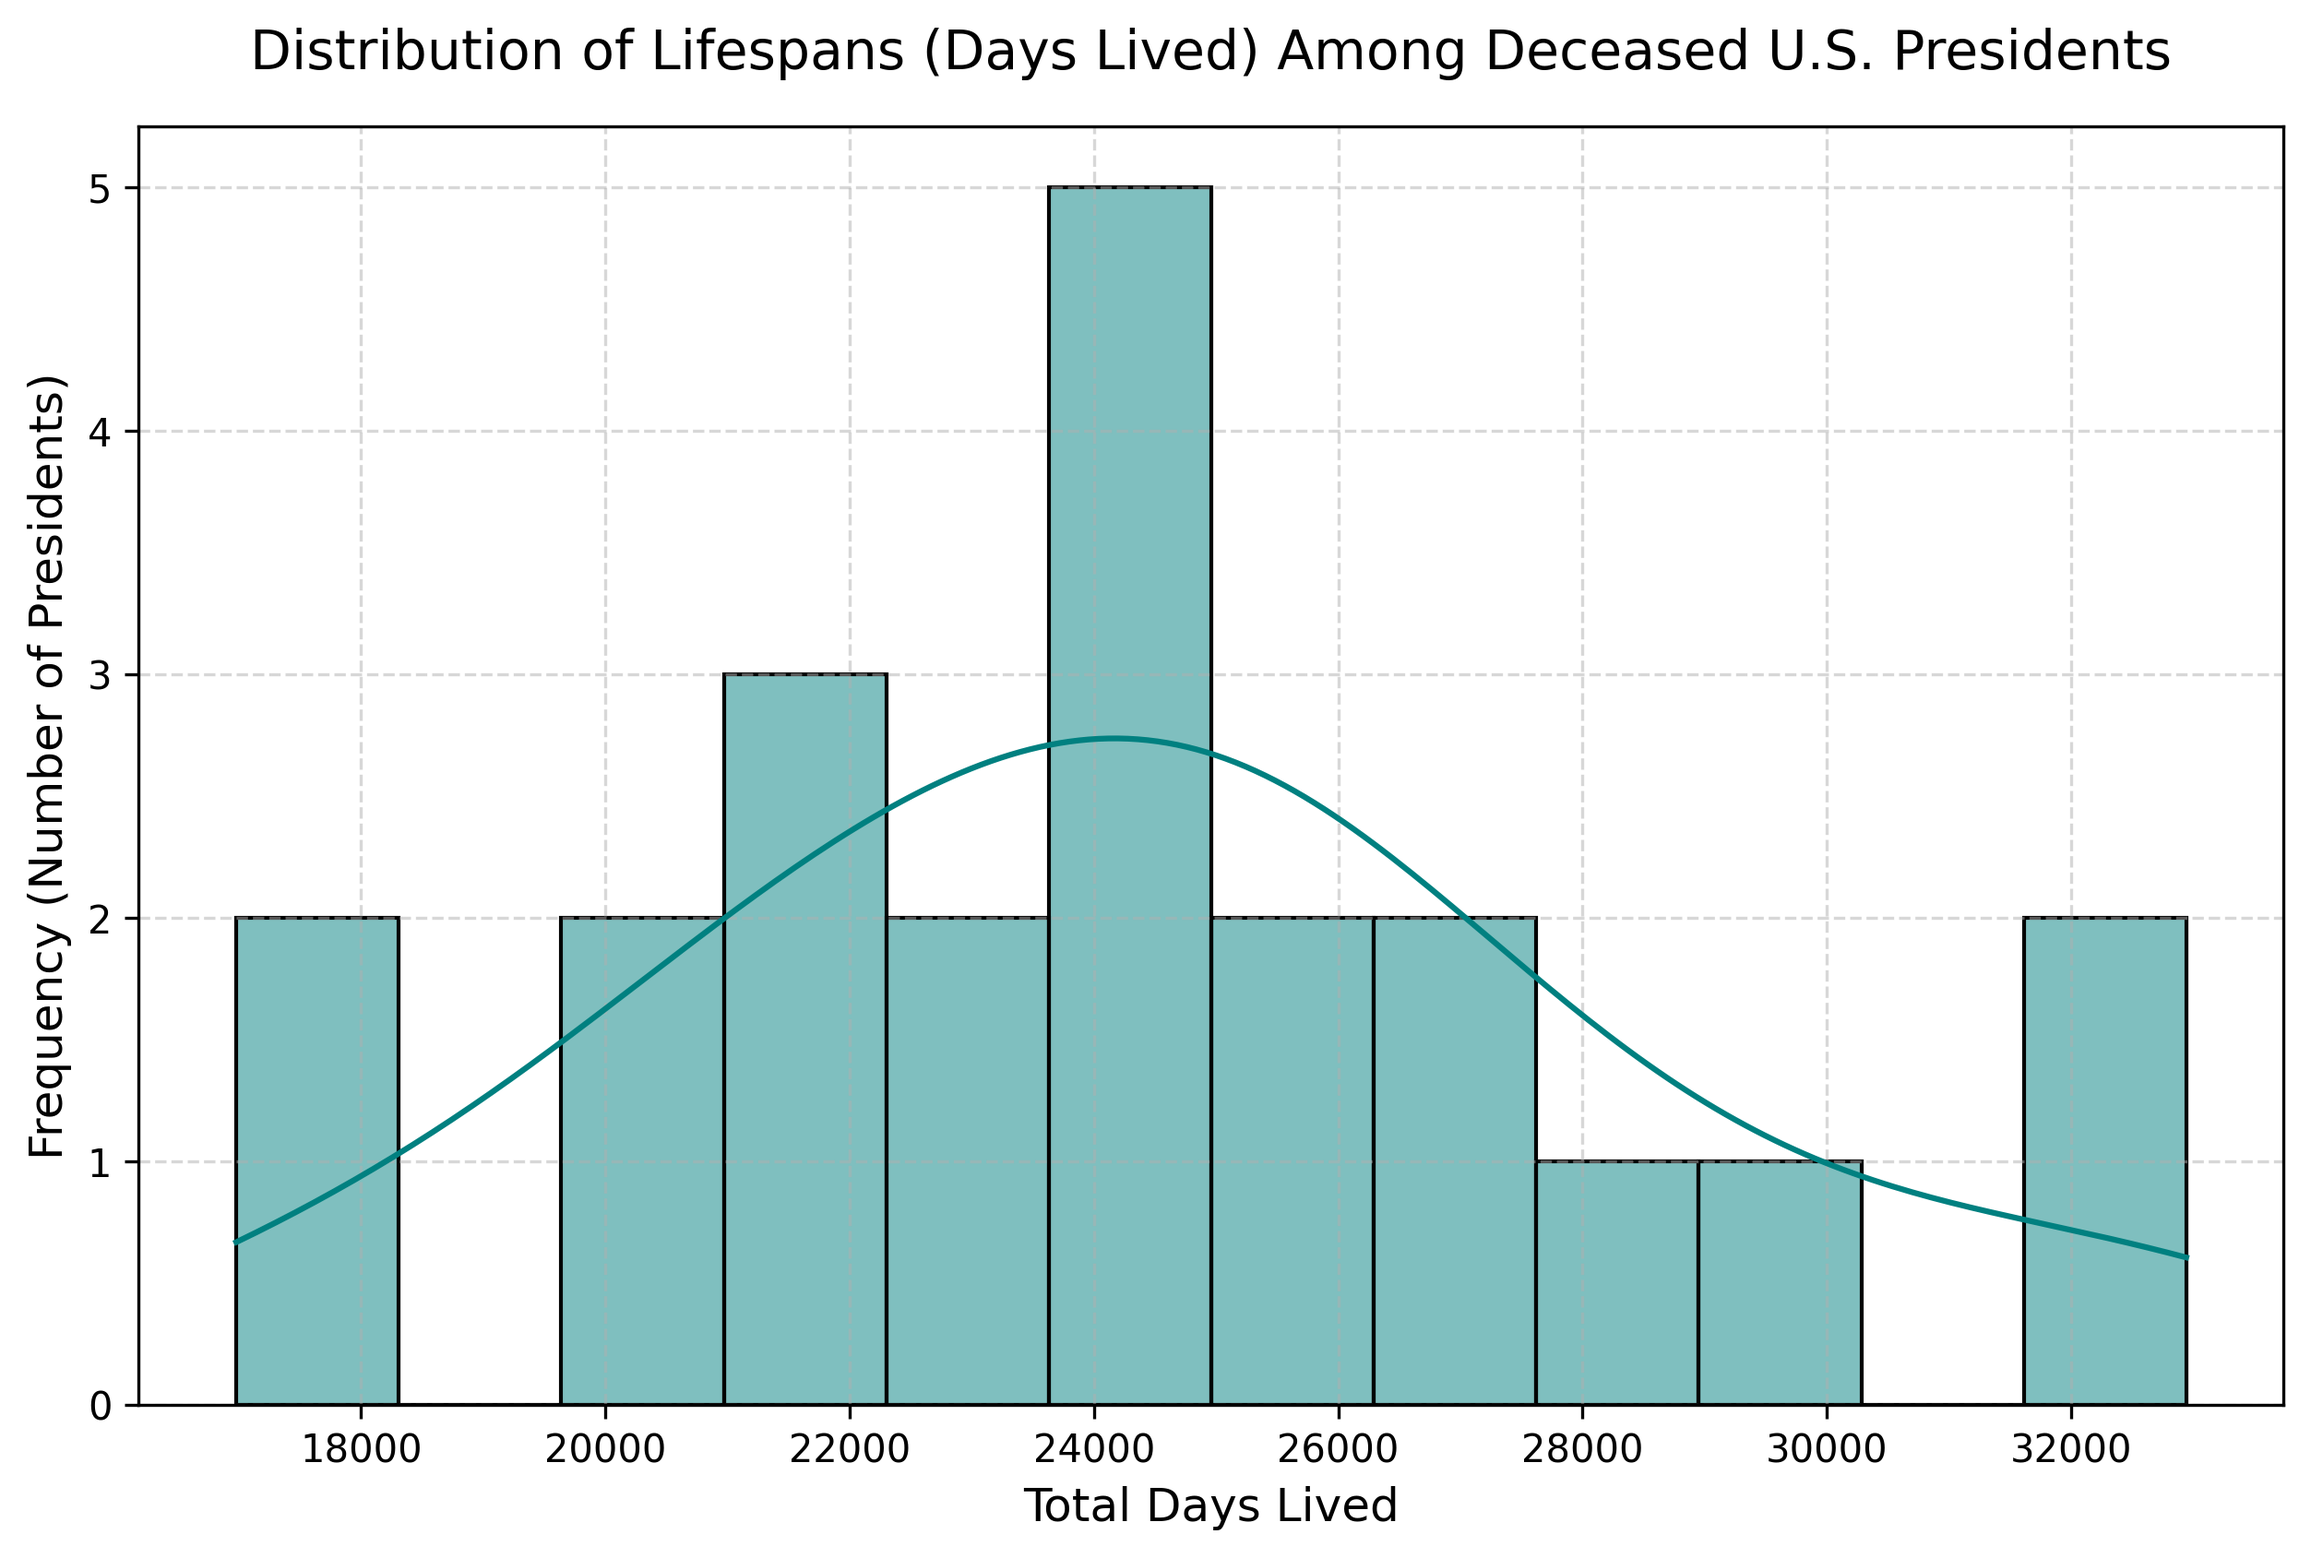
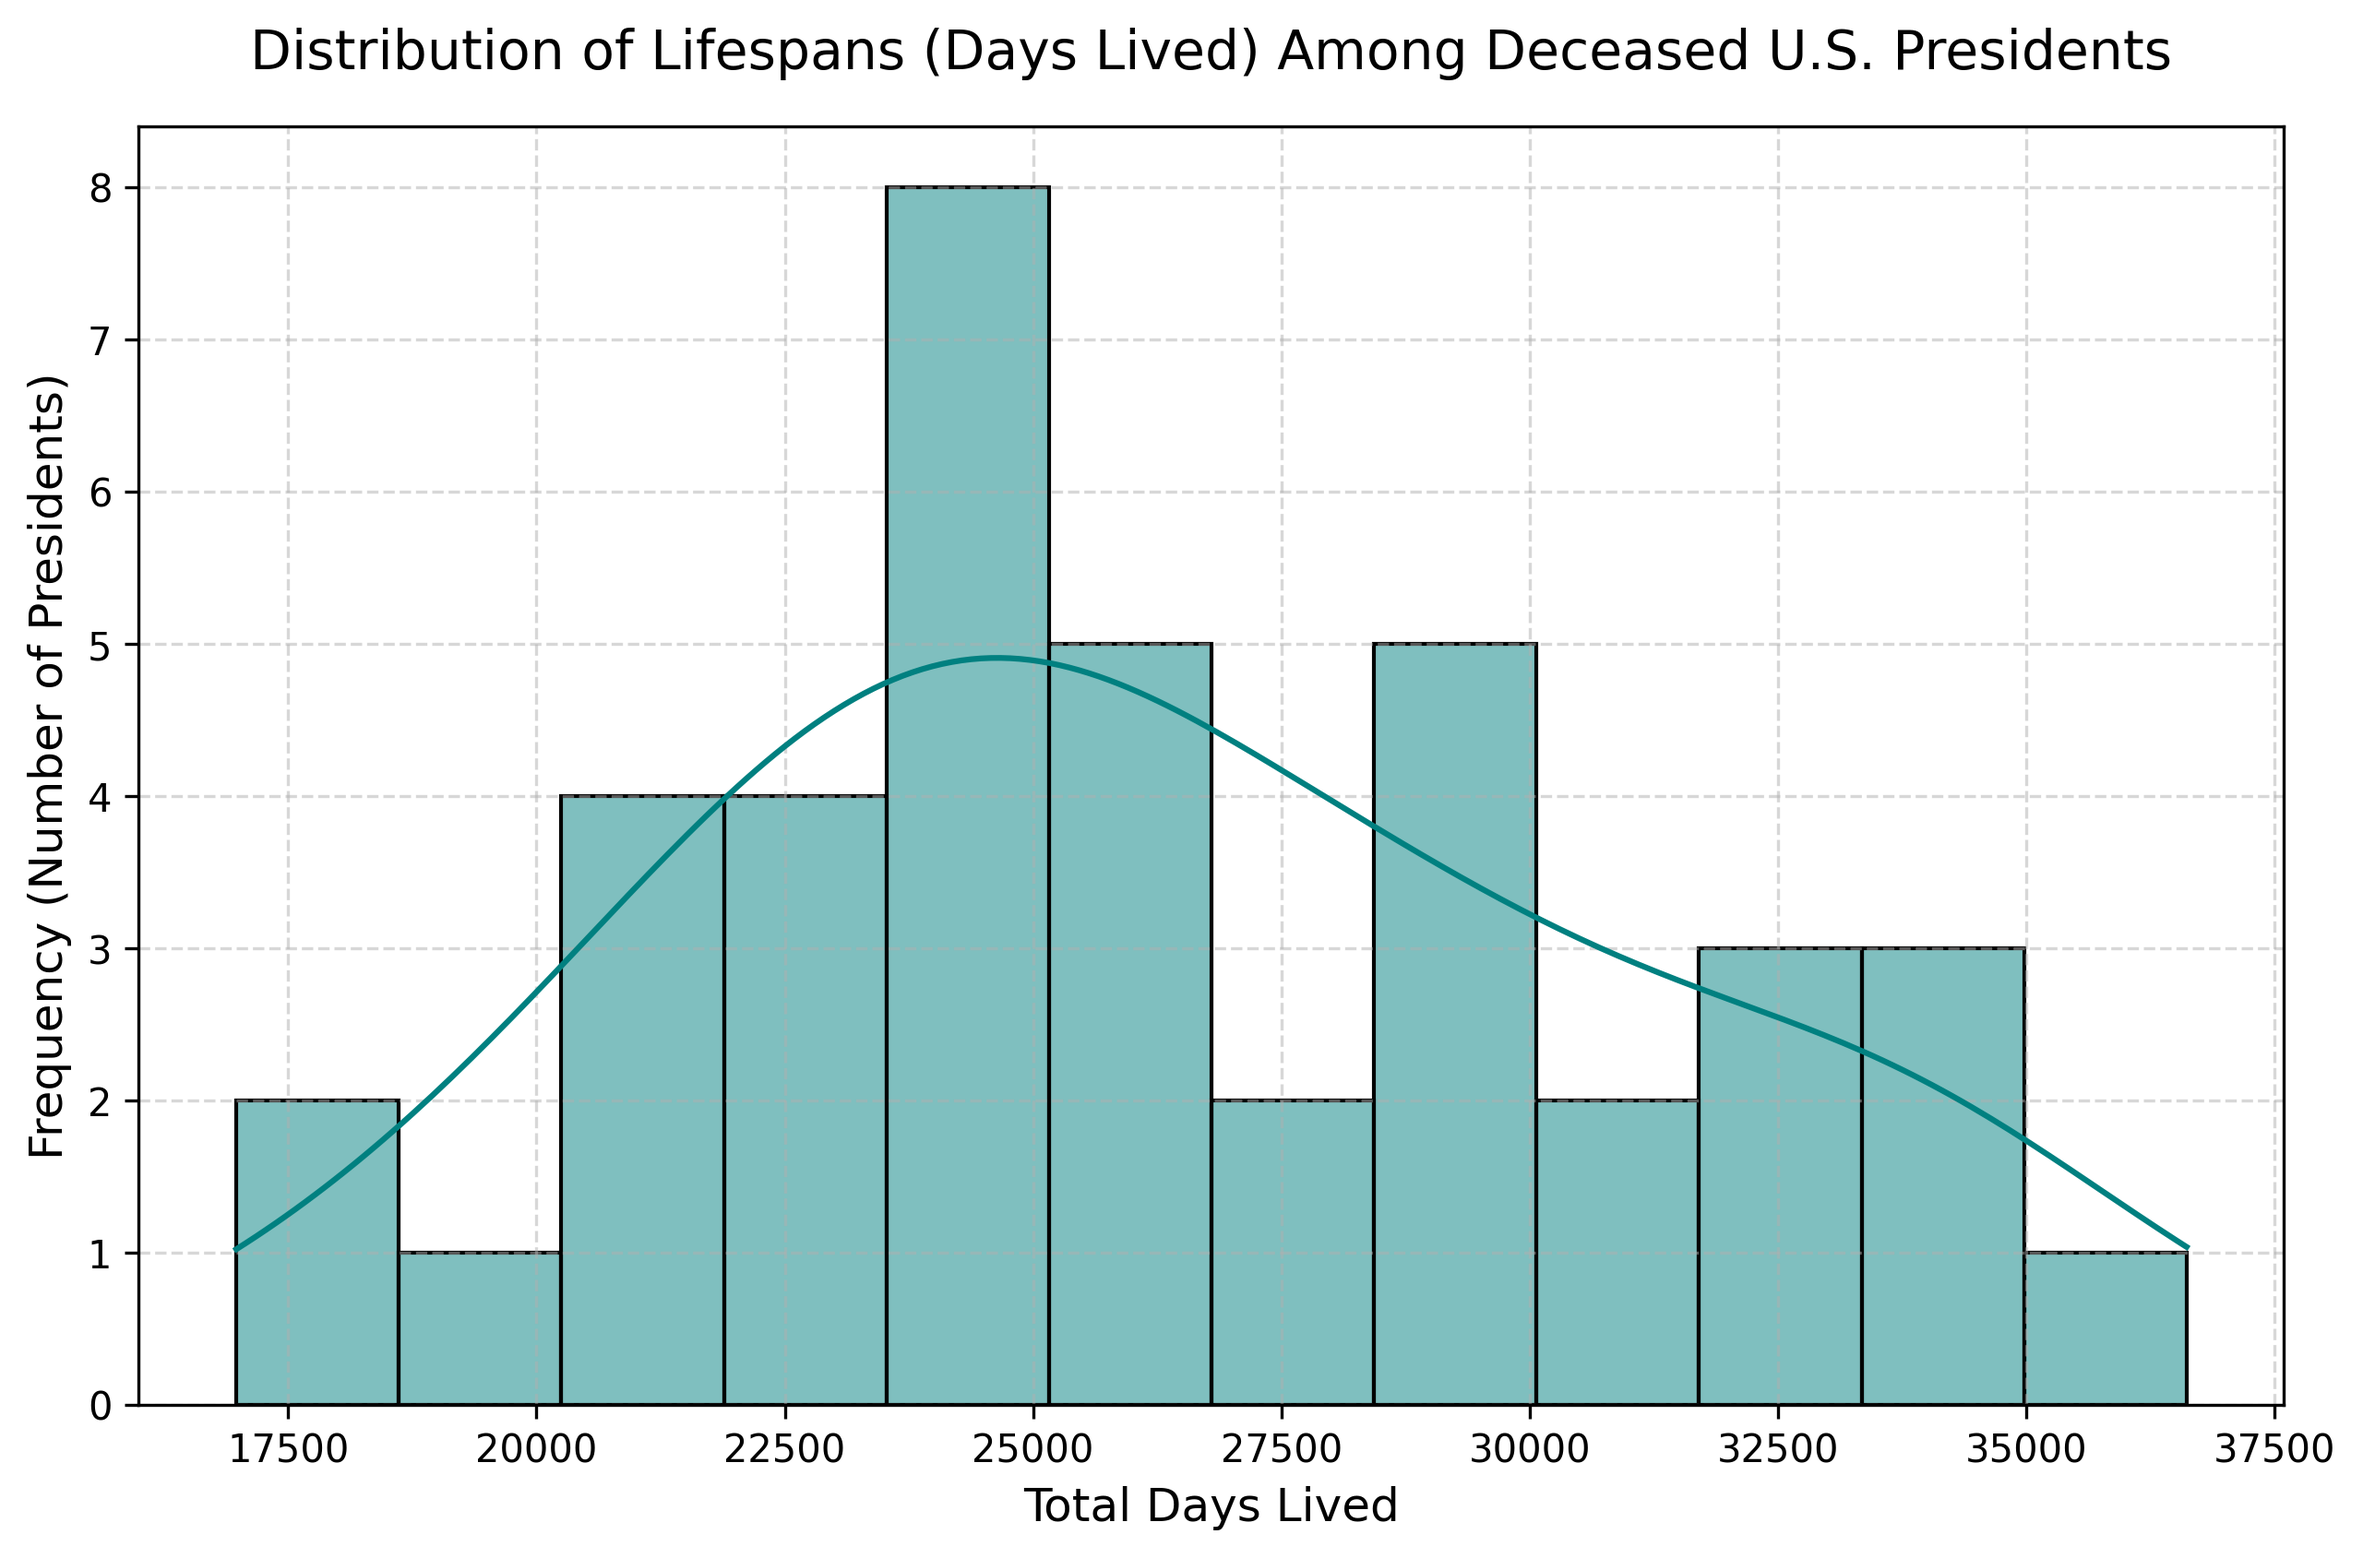
Fix deceased presidents filter and update lifespan distribution chart

Changed region(s): [[0.0934, 0.0616, 0.9964, 0.9852], [0.0934, 0.0, 0.9341, 0.0616], [0.0, 0.0924, 0.0623, 0.9236]]

diff --git a/information.py b/information.py
@@ -6,14 +6,15 @@
 # - NumPy library for numerical operations
 # - Pandas library for data manipulation and analysis
 
-from datetime import datetime
+from pathlib import Path
+
 import numpy as np
 import pandas as pd
 import matplotlib.pyplot as plt
 import seaborn as sns
 
-# Raw string to handle the backslashes in the file path
-president_path = r"C:\Users\fores\Downloads\a_problem_with_presidents\U.S. Presidents Birth and Death Information - Sheet1.csv"
+project_dir = Path(__file__).resolve().parent
+president_path = project_dir / "U.S. Presidents Birth and Death Information - Sheet1.csv"
 
 
 def analyze(path):
@@ -25,32 +26,21 @@ def analyze(path):
 
     # Converts times into datetime objects 
     # If date is invalud, it will be converted to NaT (Not a Time)
-    frame["bday"] = pd.to_datetime(frame["BIRTH DATE"], errors="coerce")
-    frame["dod"] = pd.to_datetime(frame["DEATH DATE"], errors="coerce")
-
-    today = pd.Timestamp(datetime.today().date())
-    # Fills the missing values in the column in the date of death (presidents still alive) with todays date
-    frame["find_dod"] = frame["dod"].fillna(today)
-
-    # Calculates the birth year, days lived, years lived, and months lived for each president
-    frame["year_of_birth"] = frame["bday"].dt.year
-    frame["lived_days"] = (frame["find_dod"] - frame["bday"]).dt.days
-    frame["lived_years"] = frame["lived_days"] / 365.25
-    # Calculation: Gets difference of years and multiplies by 12, then adds on leftover months by subtracting birth from death month
-    frame["lived_months"] = (
-        (frame["find_dod"].dt.year - frame["bday"].dt.year) * 12
-        + (frame["find_dod"].dt.month - frame["bday"].dt.month)
+    frame["bday"] = frame["BIRTH DATE"].map(
+        lambda value: pd.to_datetime(value, errors="coerce")
+    )
+    frame["dod"] = frame["DEATH DATE"].map(
+        lambda value: pd.to_datetime(value, errors="coerce")
     )
 
-    # Filter for only presidents who have a valid death date
-    deceased_frame = frame.dropna(subset=["dod"]).copy()
+    # Keep only presidents with valid birth and death dates
+    deceased_frame = frame.dropna(subset=["bday", "dod"]).copy()
 
-    # Calculate days lived only for deceased presidents
+    # Calculates the birth year, days lived, years lived, and months lived for each president
     deceased_frame["year_of_birth"] = deceased_frame["bday"].dt.year
-    deceased_frame["lived_days"] = (
-        deceased_frame["dod"] - deceased_frame["bday"]
-    ).dt.days
+    deceased_frame["lived_days"] = (deceased_frame["dod"] - deceased_frame["bday"]).dt.days
     deceased_frame["lived_years"] = deceased_frame["lived_days"] / 365.25
+    # Calculation: Gets difference of years and multiplies by 12, then adds on leftover months by subtracting birth from death month
     deceased_frame["lived_months"] = (
         (deceased_frame["dod"].dt.year - deceased_frame["bday"].dt.year) * 12
         + (deceased_frame["dod"].dt.month - deceased_frame["bday"].dt.month)
@@ -70,7 +60,7 @@ def analyze(path):
     print(shortest_lived, "\n")
 
     # Use this cleaned/filtered series for your stats and histogram
-    days_lived_cleaned = deceased_frame["lived_days"]
+    days_lived_cleaned = deceased_frame["lived_days"].dropna()
 
     stats = {
         "Mean": days_lived_cleaned.mean(),
@@ -98,7 +88,9 @@ def analyze(path):
     plt.grid(True, linestyle="--", alpha=0.5)
 
     plt.savefig(
-        "president_lifespan_distribution.png", dpi=300, bbox_inches="tight"
+        project_dir / "president_lifespan_distribution.png",
+        dpi=300,
+        bbox_inches="tight",
     )
 
     plt.show()
